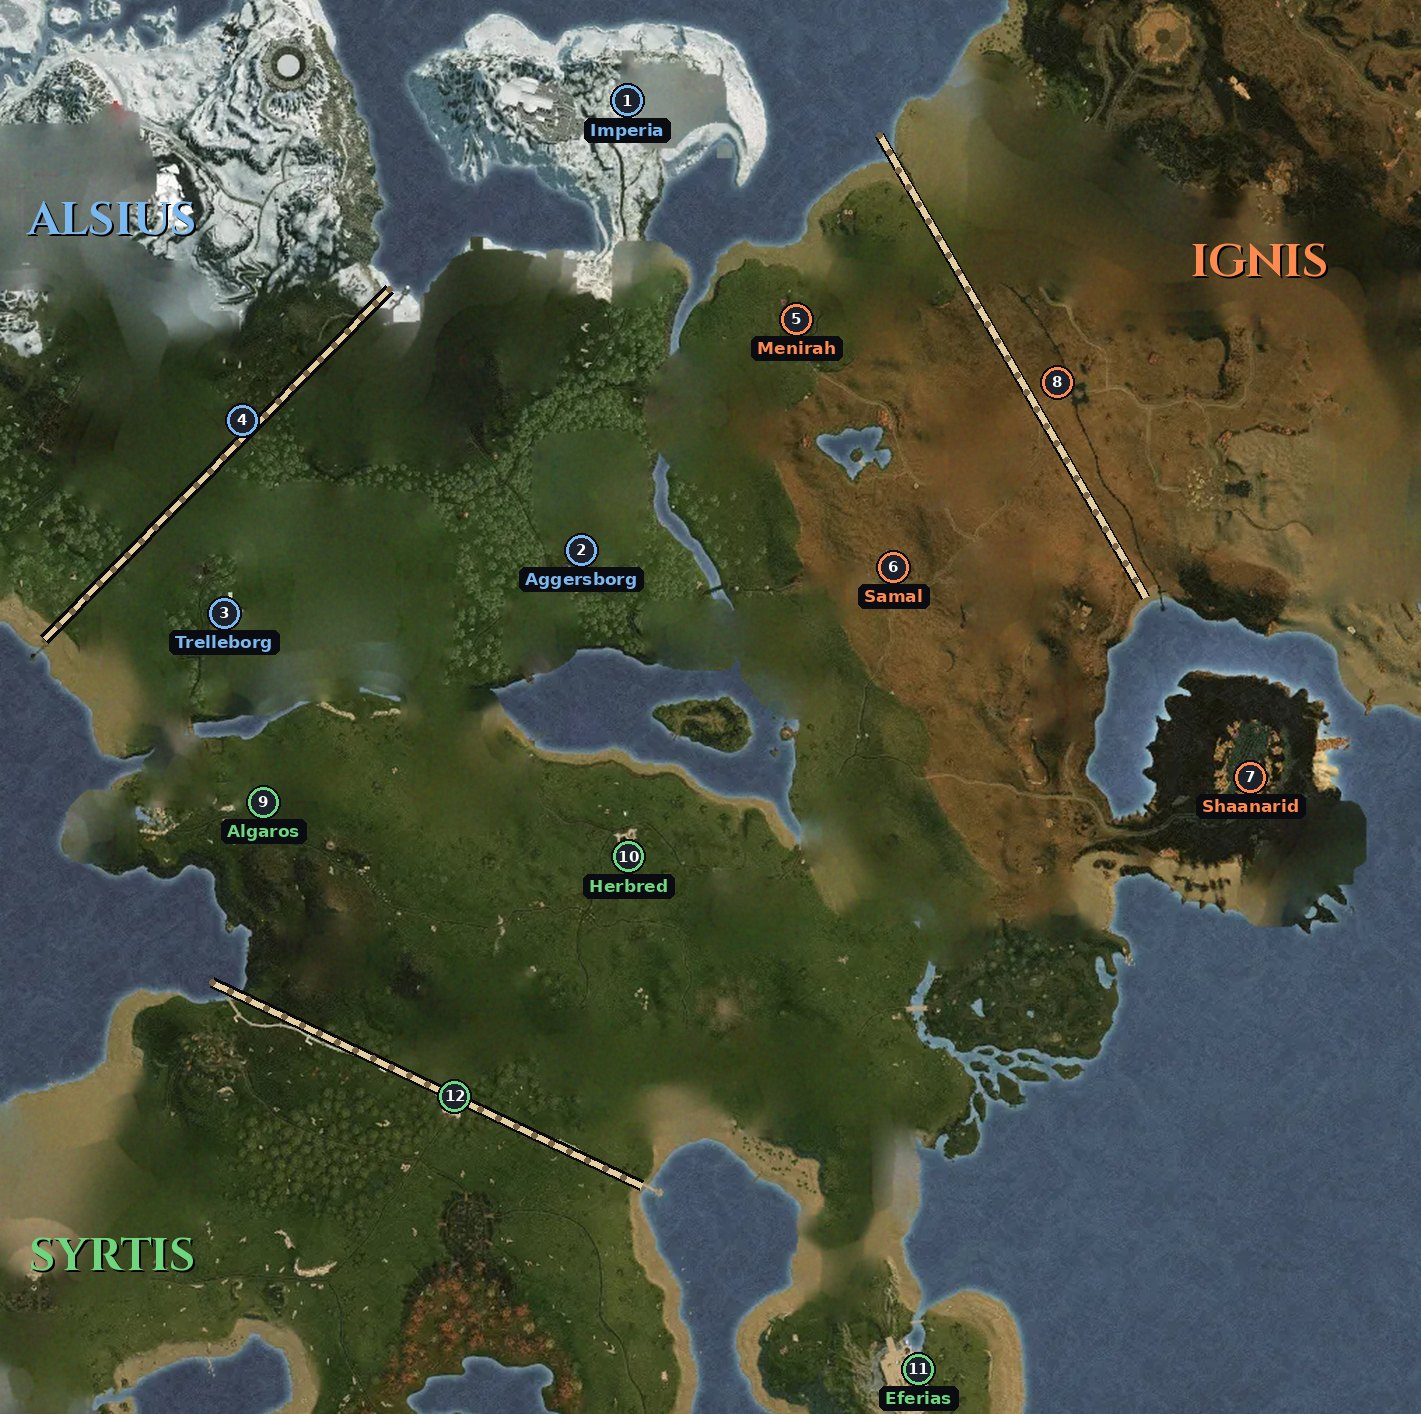
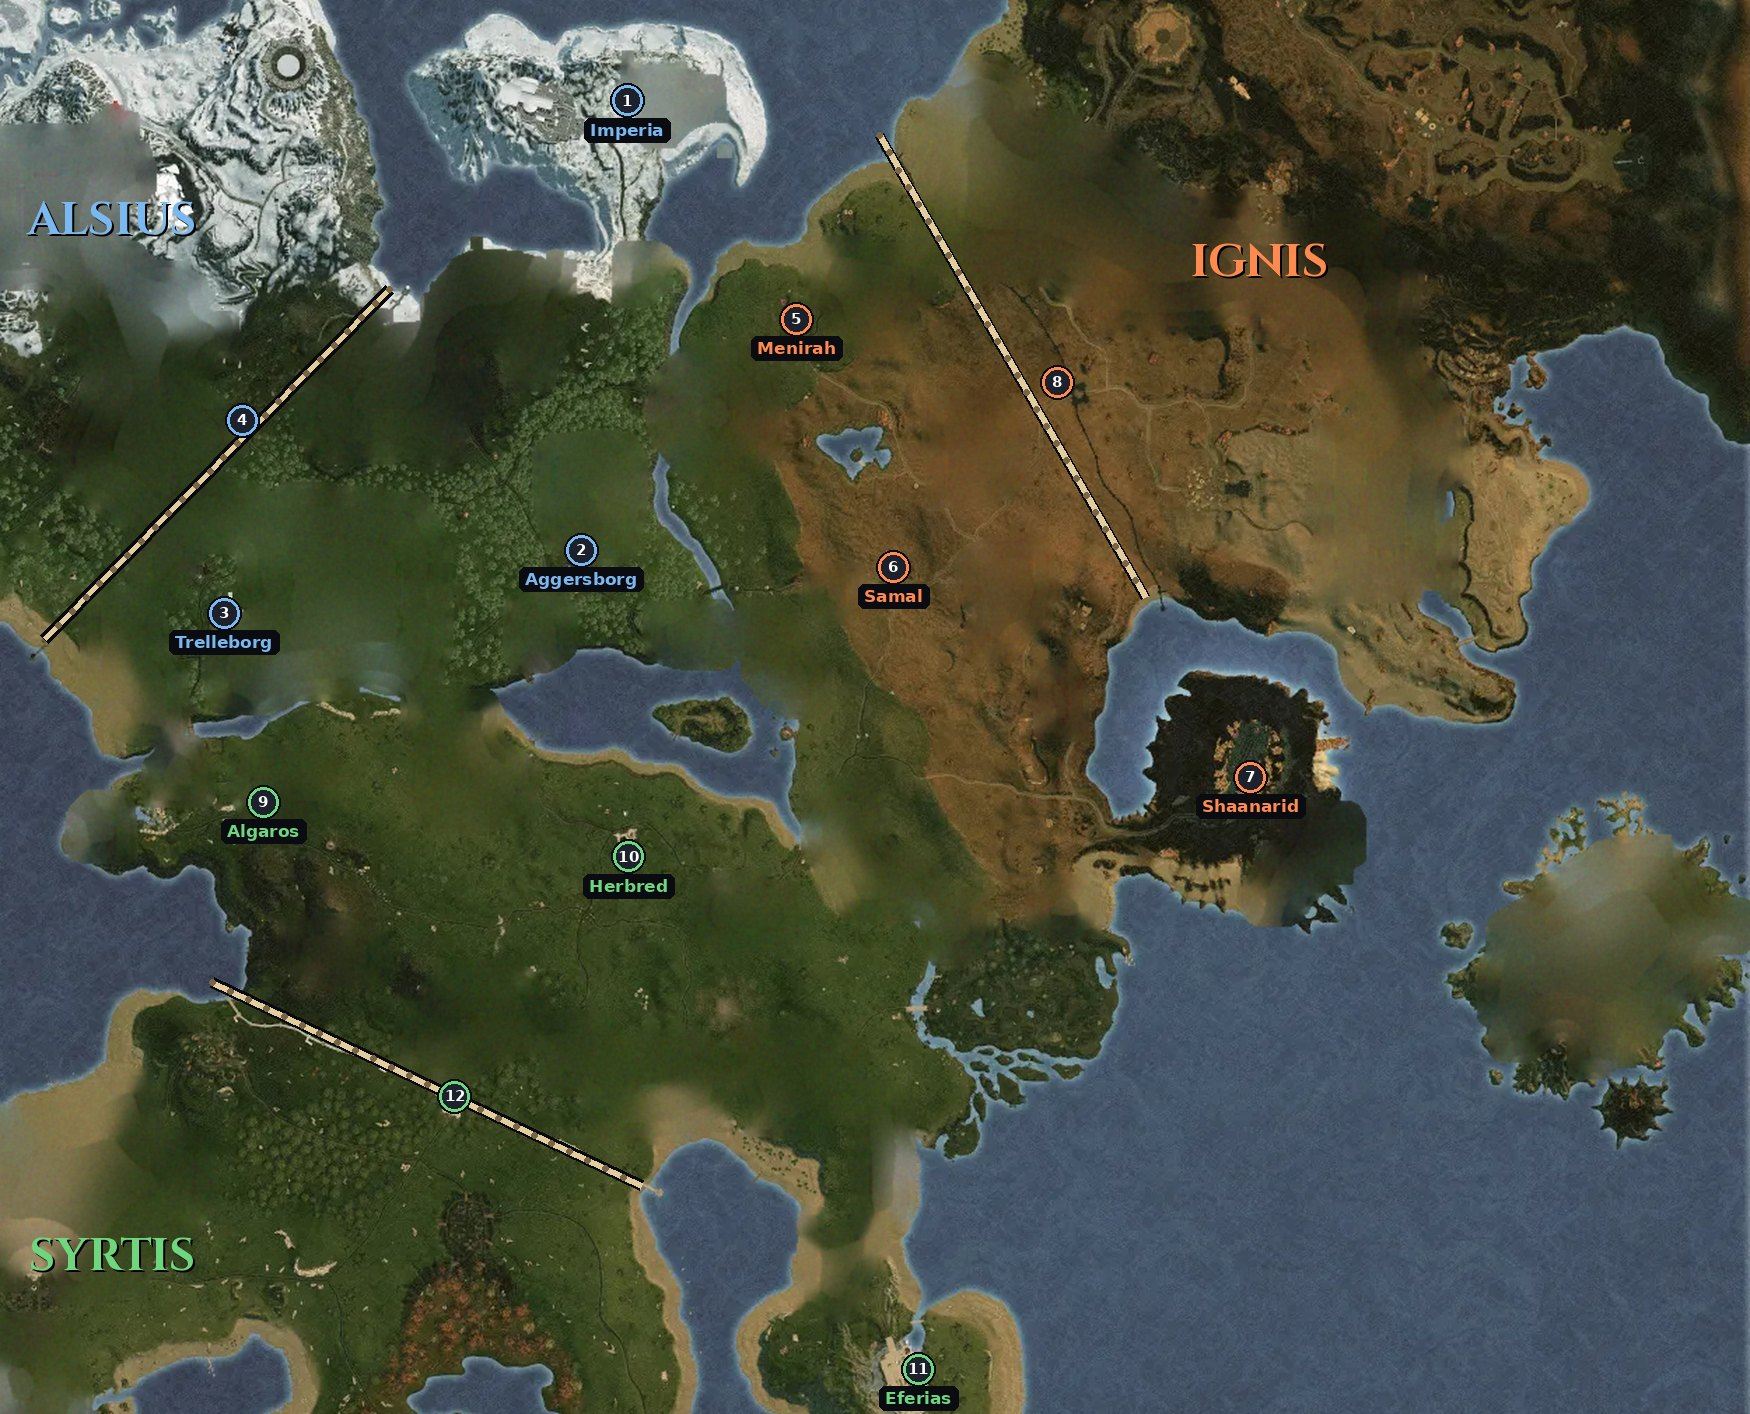
Materials map: include island east of Shaanarid (tree sap and carbon)
Claude-Session: https://claude.ai/code/session_01SPy8wMHtchVwNueUxUAQkb

diff --git a/src/wzMaterials.js b/src/wzMaterials.js
@@ -1,7 +1,7 @@
 // Materiais de crafting na zona de guerra (fora das muralhas).
 // Posições em % do mapa base (public/wz-materiais/base.jpg). Mapa base: REDO.
 
-export const WZ_MAP_RATIO = 1.004950495049505
+export const WZ_MAP_RATIO = 1.2376237623762376
 
 export const WZ_MATERIALS = [
   {
@@ -11,8 +11,8 @@ export const WZ_MATERIALS = [
     icon: './crafting/carbon-ore.png',
     color: '#c7d0dc',
     overlay: './wz-materiais/carvao.png',
-    bbox: [9.852, 24.611, 85.644, 55.092],
-    spots: [[31.06, 28.57], [50.4, 29.13], [68.4, 31.7], [11.48, 39.32], [22.89, 48.03], [31.94, 50.82], [20.16, 55.41], [23.51, 67.18], [55.9, 76.04], [93.29, 59.41]],
+    bbox: [8.0, 24.611, 91.6, 55.092],
+    spots: [[87.06, 72.59], [91.4, 73.95], [98.37, 65.51], [25.22, 28.57], [40.93, 29.13], [55.54, 31.7], [9.32, 39.32], [18.59, 48.03], [25.94, 50.82], [16.37, 55.41], [19.09, 67.18], [45.39, 76.04], [75.75, 59.41]],
   },
   {
     id: 'nogueira',
@@ -21,8 +21,8 @@ export const WZ_MATERIALS = [
     icon: './crafting/hickory-wood-log.png',
     color: '#ffb21a',
     overlay: './wz-materiais/nogueira.png',
-    bbox: [28.36, 31.047, 37.298, 45.403],
-    spots: [[41.56, 34.91], [37.87, 44.44], [54.89, 46.6], [33.0, 55.31], [60.79, 60.53], [33.06, 72.35]],
+    bbox: [23.029, 31.047, 30.286, 45.403],
+    spots: [[33.75, 34.91], [30.75, 44.44], [44.57, 46.6], [26.8, 55.31], [49.36, 60.53], [26.85, 72.35]],
   },
   {
     id: 'seiva',
@@ -31,8 +31,8 @@ export const WZ_MATERIALS = [
     icon: './crafting/tree-sap.png',
     color: '#ff6fae',
     overlay: './wz-materiais/seiva.png',
-    bbox: [5.278, 17.327, 63.969, 59.406],
-    spots: [[15.7, 36.46], [48.55, 44.78], [7.16, 58.52], [67.14, 65.32], [40.82, 74.38], [58.92, 19.22]],
+    bbox: [4.286, 17.327, 93.257, 59.406],
+    spots: [[91.54, 66.98], [12.75, 36.46], [39.42, 44.78], [5.82, 58.52], [54.52, 65.32], [33.15, 74.38], [47.84, 19.22]],
   },
   {
     id: 'ferro',
@@ -41,8 +41,8 @@ export const WZ_MATERIALS = [
     icon: './crafting/mineral-de-ferro.png',
     color: '#ff7b3d',
     overlay: './wz-materiais/ferro.png',
-    bbox: [21.534, 18.317, 54.469, 74.47],
-    spots: [[34.9, 22.07], [25.57, 27.89], [74.49, 49.66], [59.3, 89.89]],
+    bbox: [17.486, 18.317, 44.229, 74.47],
+    spots: [[28.34, 22.07], [20.77, 27.89], [60.49, 49.66], [48.15, 89.89]],
   },
   {
     id: 'titanio',
@@ -51,8 +51,8 @@ export const WZ_MATERIALS = [
     icon: './crafting/titanium-ore.png',
     color: '#36d9ff',
     overlay: './wz-materiais/titanio.png',
-    bbox: [57.143, 38.614, 19.704, 27.016],
-    spots: [[71.0, 41.29], [69.85, 45.07], [58.81, 41.83], [74.92, 64.21]],
+    bbox: [46.4, 38.614, 16.0, 27.016],
+    spots: [[57.66, 41.29], [56.72, 45.07], [47.75, 41.83], [60.83, 64.21]],
   },
   {
     id: 'seda',
@@ -61,8 +61,8 @@ export const WZ_MATERIALS = [
     icon: './crafting/casulo-de-seda.png',
     color: '#fff15a',
     overlay: './wz-materiais/seda.png',
-    bbox: [10.626, 52.687, 45.25, 27.652],
-    spots: [[12.57, 54.81], [52.36, 64.52], [46.34, 77.01]],
+    bbox: [8.629, 52.687, 36.743, 27.652],
+    spots: [[10.21, 54.81], [42.52, 64.52], [37.63, 77.01]],
   },
   {
     id: 'algodao',
@@ -71,8 +71,8 @@ export const WZ_MATERIALS = [
     icon: './crafting/capsulas-de-algodao.png',
     color: '#ffffff',
     overlay: './wz-materiais/algodao.png',
-    bbox: [6.193, 17.822, 58.832, 68.529],
-    spots: [[9.23, 47.03], [61.94, 20.92], [61.99, 81.62]],
+    bbox: [5.029, 17.822, 47.771, 68.529],
+    spots: [[7.49, 47.03], [50.29, 20.92], [50.34, 81.62]],
   },
   {
     id: 'linho',
@@ -81,8 +81,8 @@ export const WZ_MATERIALS = [
     icon: './crafting/bastao-de-linho.png',
     color: '#47f28f',
     overlay: './wz-materiais/linho.png',
-    bbox: [15.06, 17.68, 31.668, 32.249],
-    spots: [[23.68, 42.09], [45.02, 19.22]],
+    bbox: [12.229, 17.68, 25.714, 32.249],
+    spots: [[19.23, 42.09], [36.55, 19.22]],
   },
   {
     id: 'ossos',
@@ -91,8 +91,8 @@ export const WZ_MATERIALS = [
     icon: null,
     color: '#c08bff',
     overlay: './wz-materiais/ossos.png',
-    bbox: [45.32, 5.233, 5.137, 4.597],
-    spots: [[47.4, 7.18]],
+    bbox: [36.8, 5.233, 4.171, 4.597],
+    spots: [[38.49, 7.18]],
   },
 ]
 
